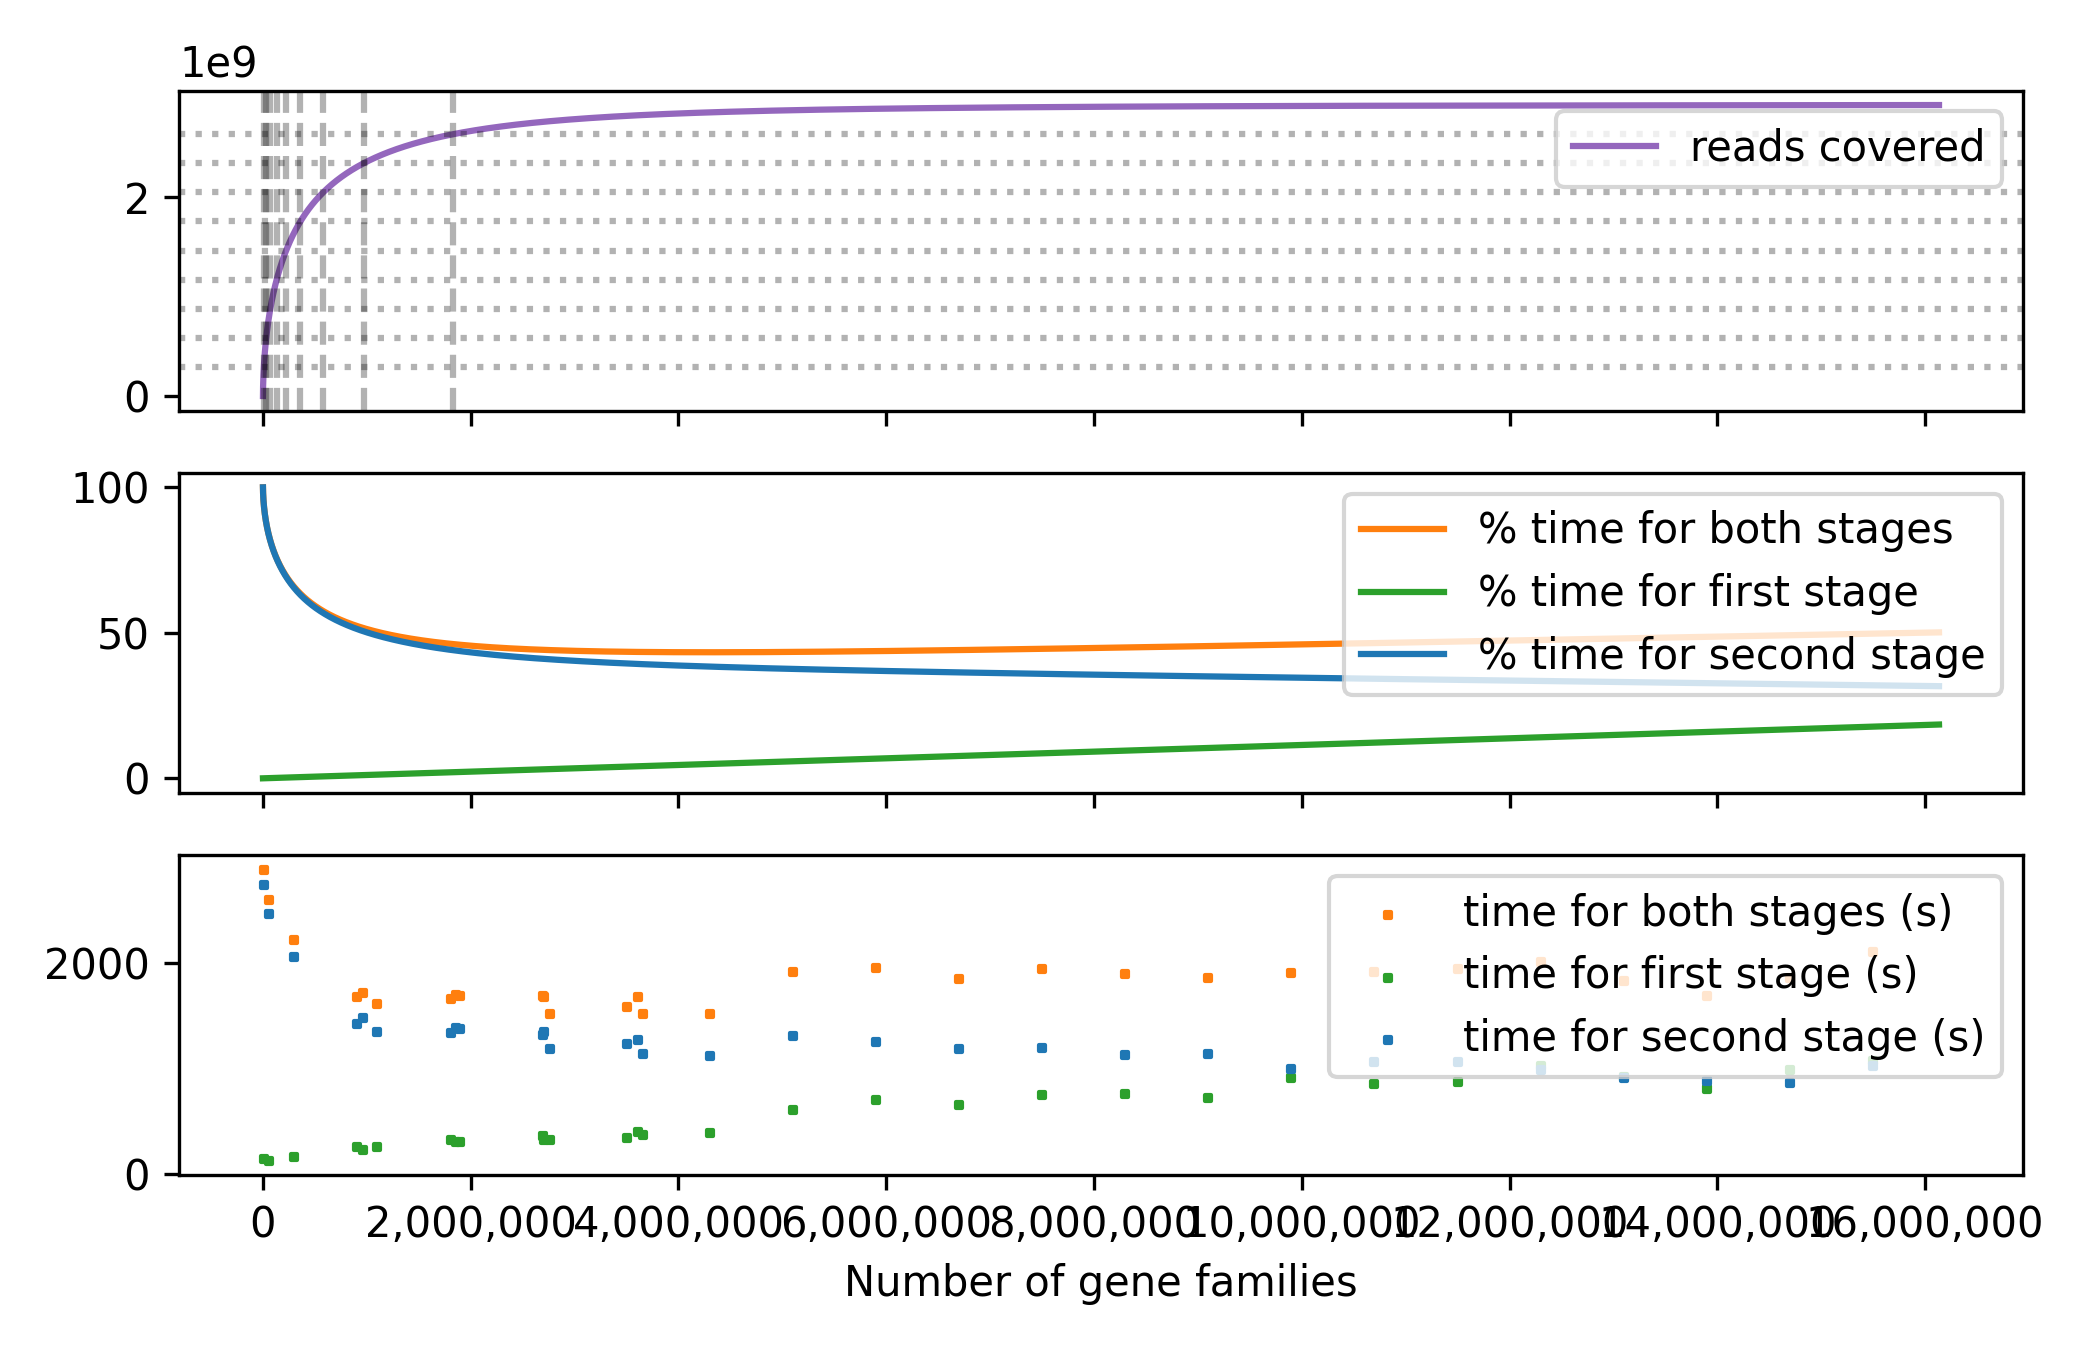
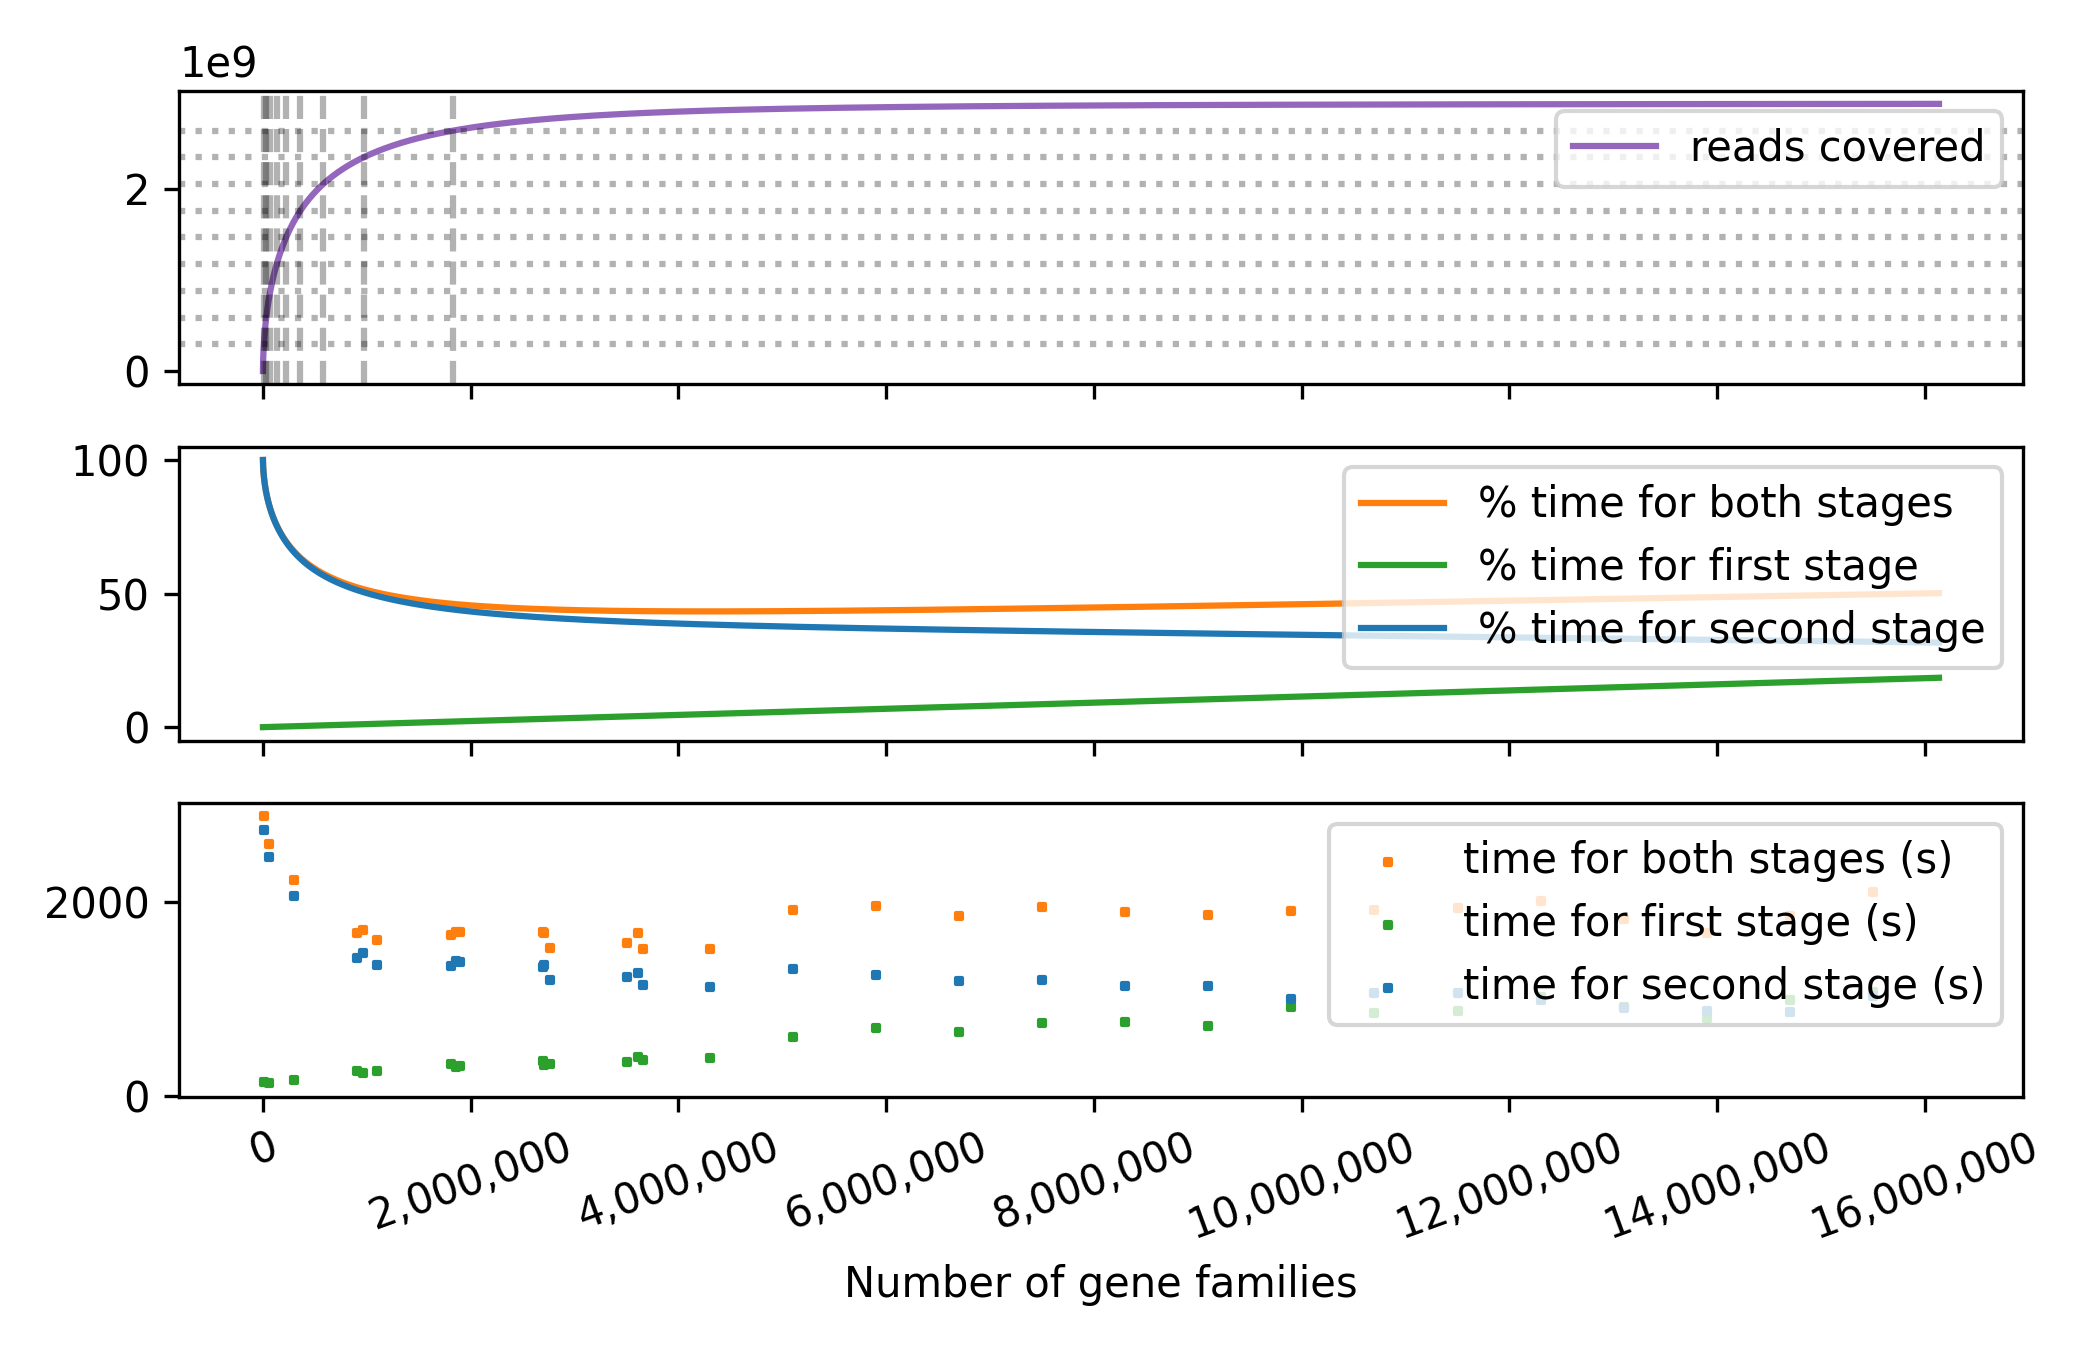
upload data

diff --git a/FilteredDatabase/EvaluateHumannRuns/plotSplitDatabaseTime.py b/FilteredDatabase/EvaluateHumannRuns/plotSplitDatabaseTime.py
@@ -51,6 +51,7 @@ plot3.scatter(times_per_split["split"] / preview_factor, times_per_split["transl
               label="time for second stage (s)", c="tab:blue")
 
 fig.gca().xaxis.set_major_formatter(StrMethodFormatter('{x:,.0f}'))
+fig.gca().tick_params(axis='x', labelrotation=20)
 plot3.set_xlabel("Number of gene families")
 # plt.ylabel("Percentage of mapped reads")
 # plt.title("Gene family vs cumulative abundance")
